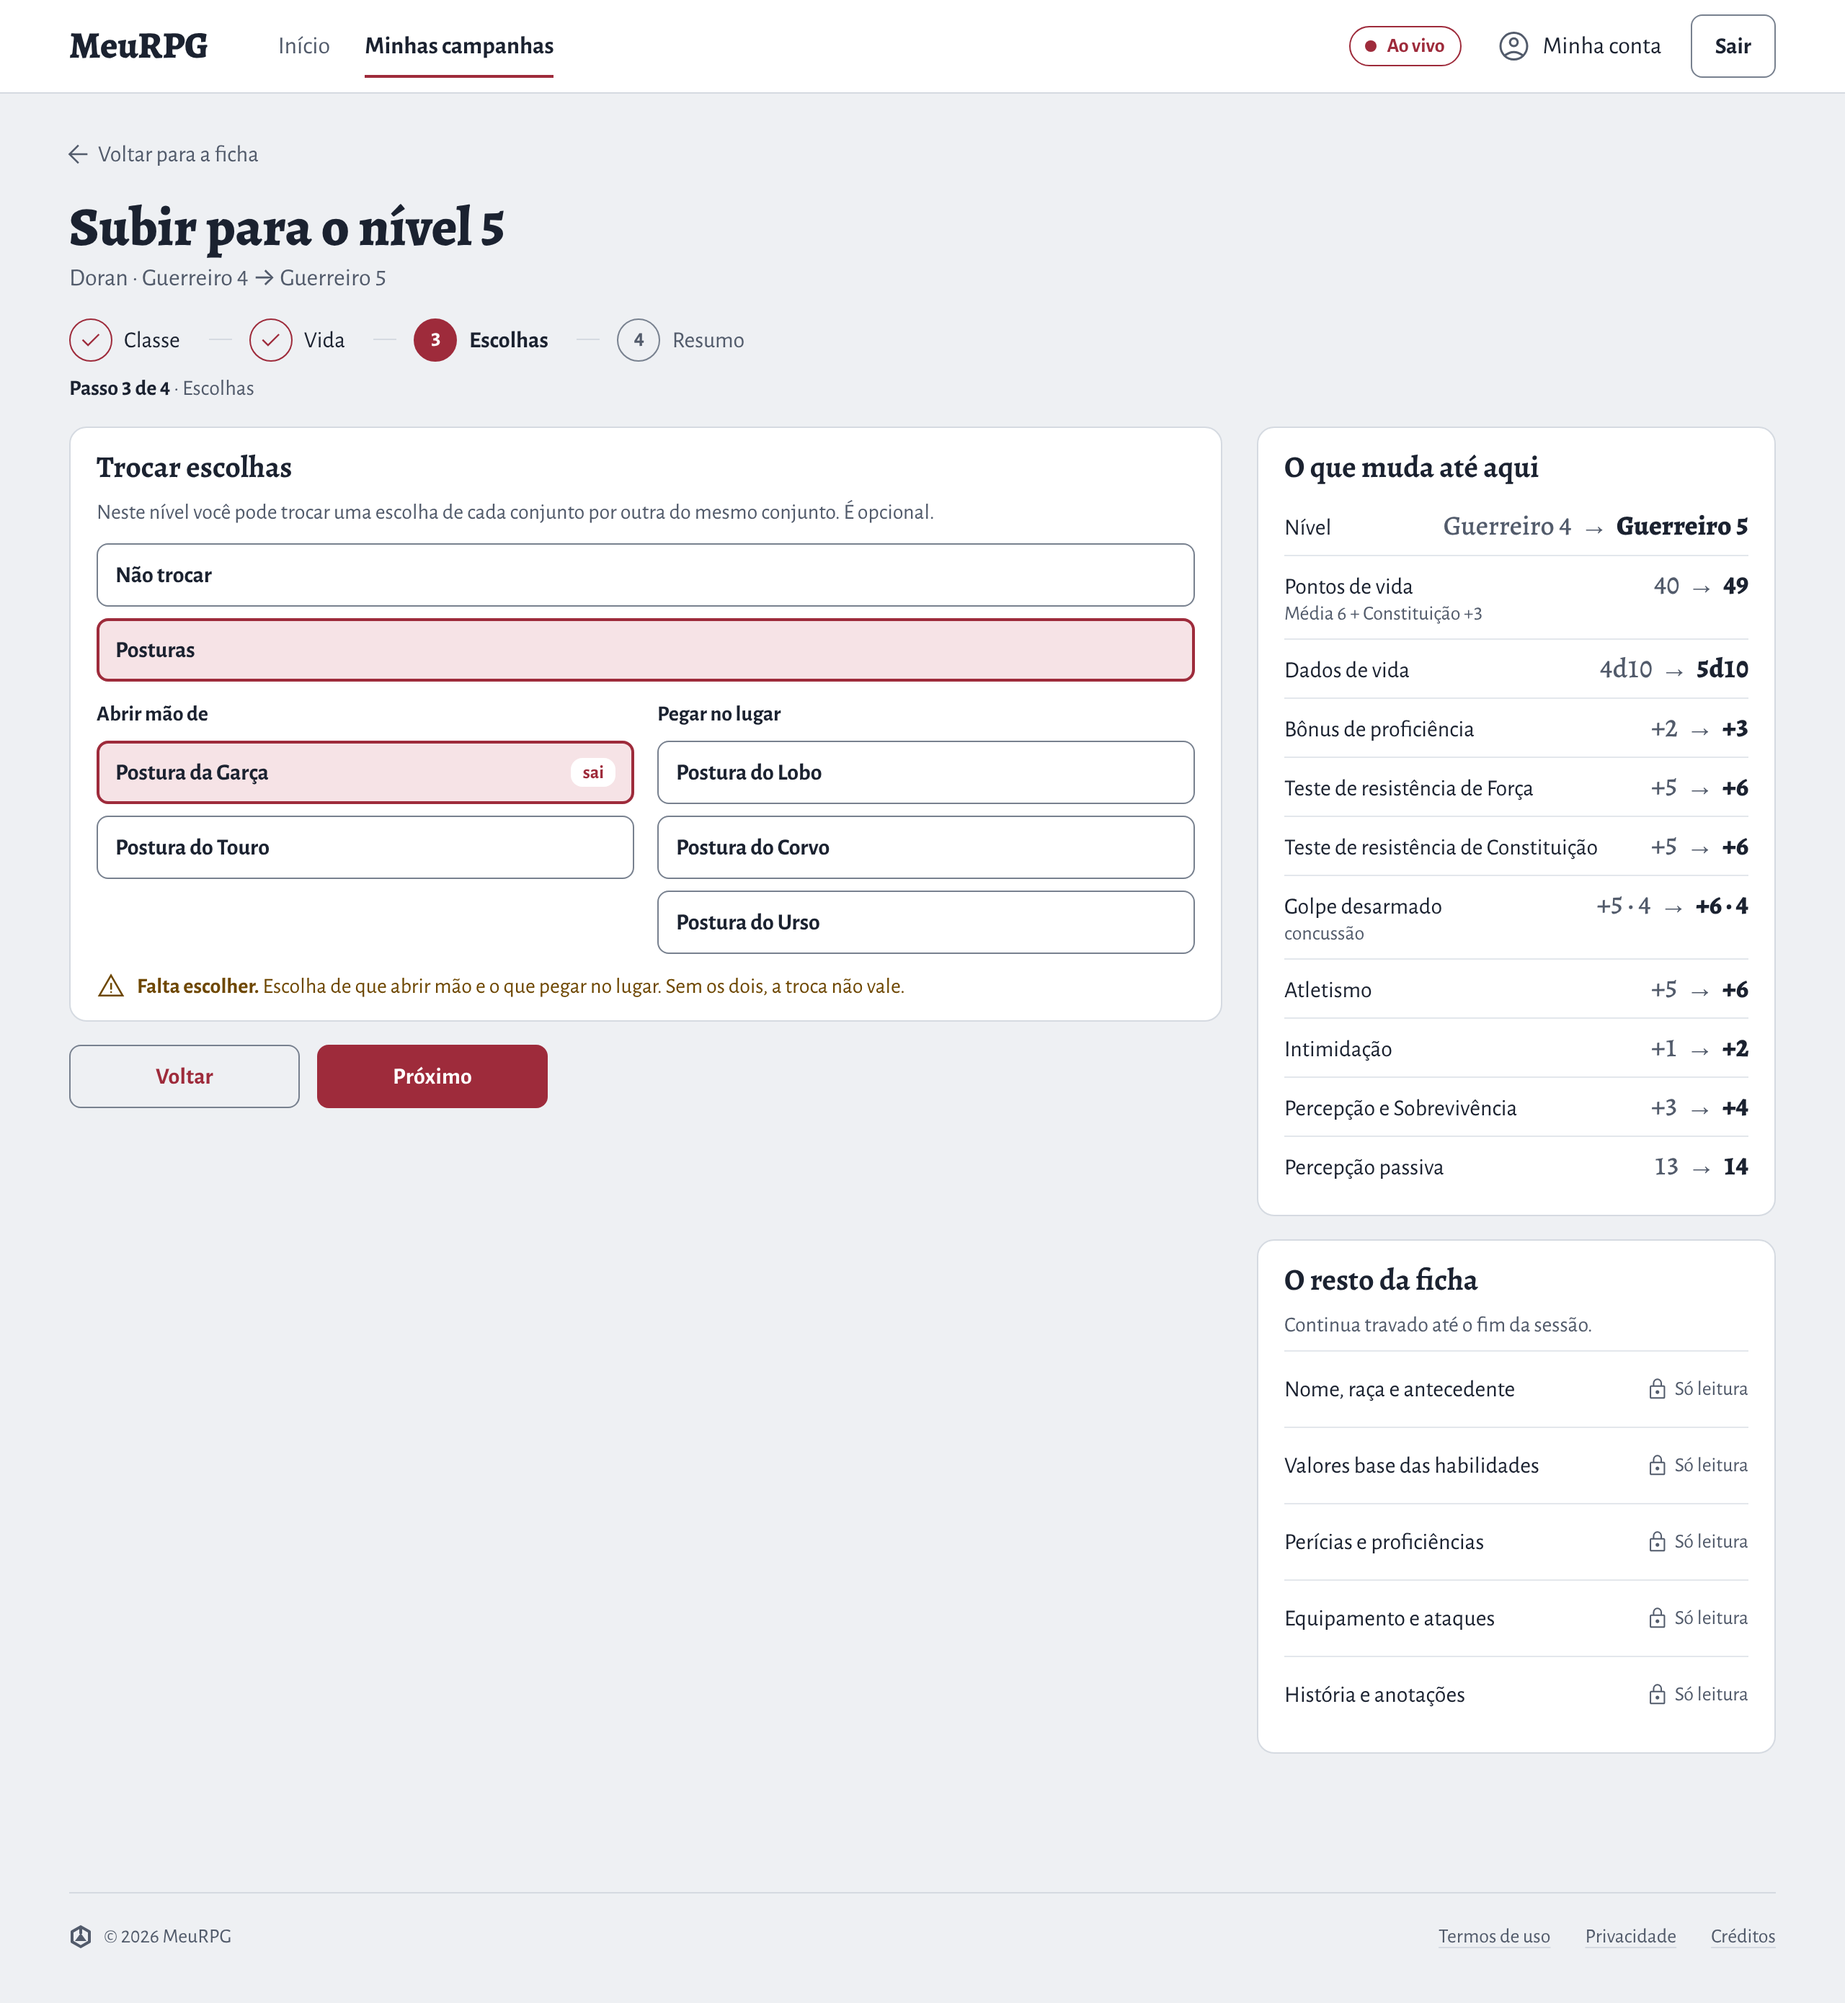
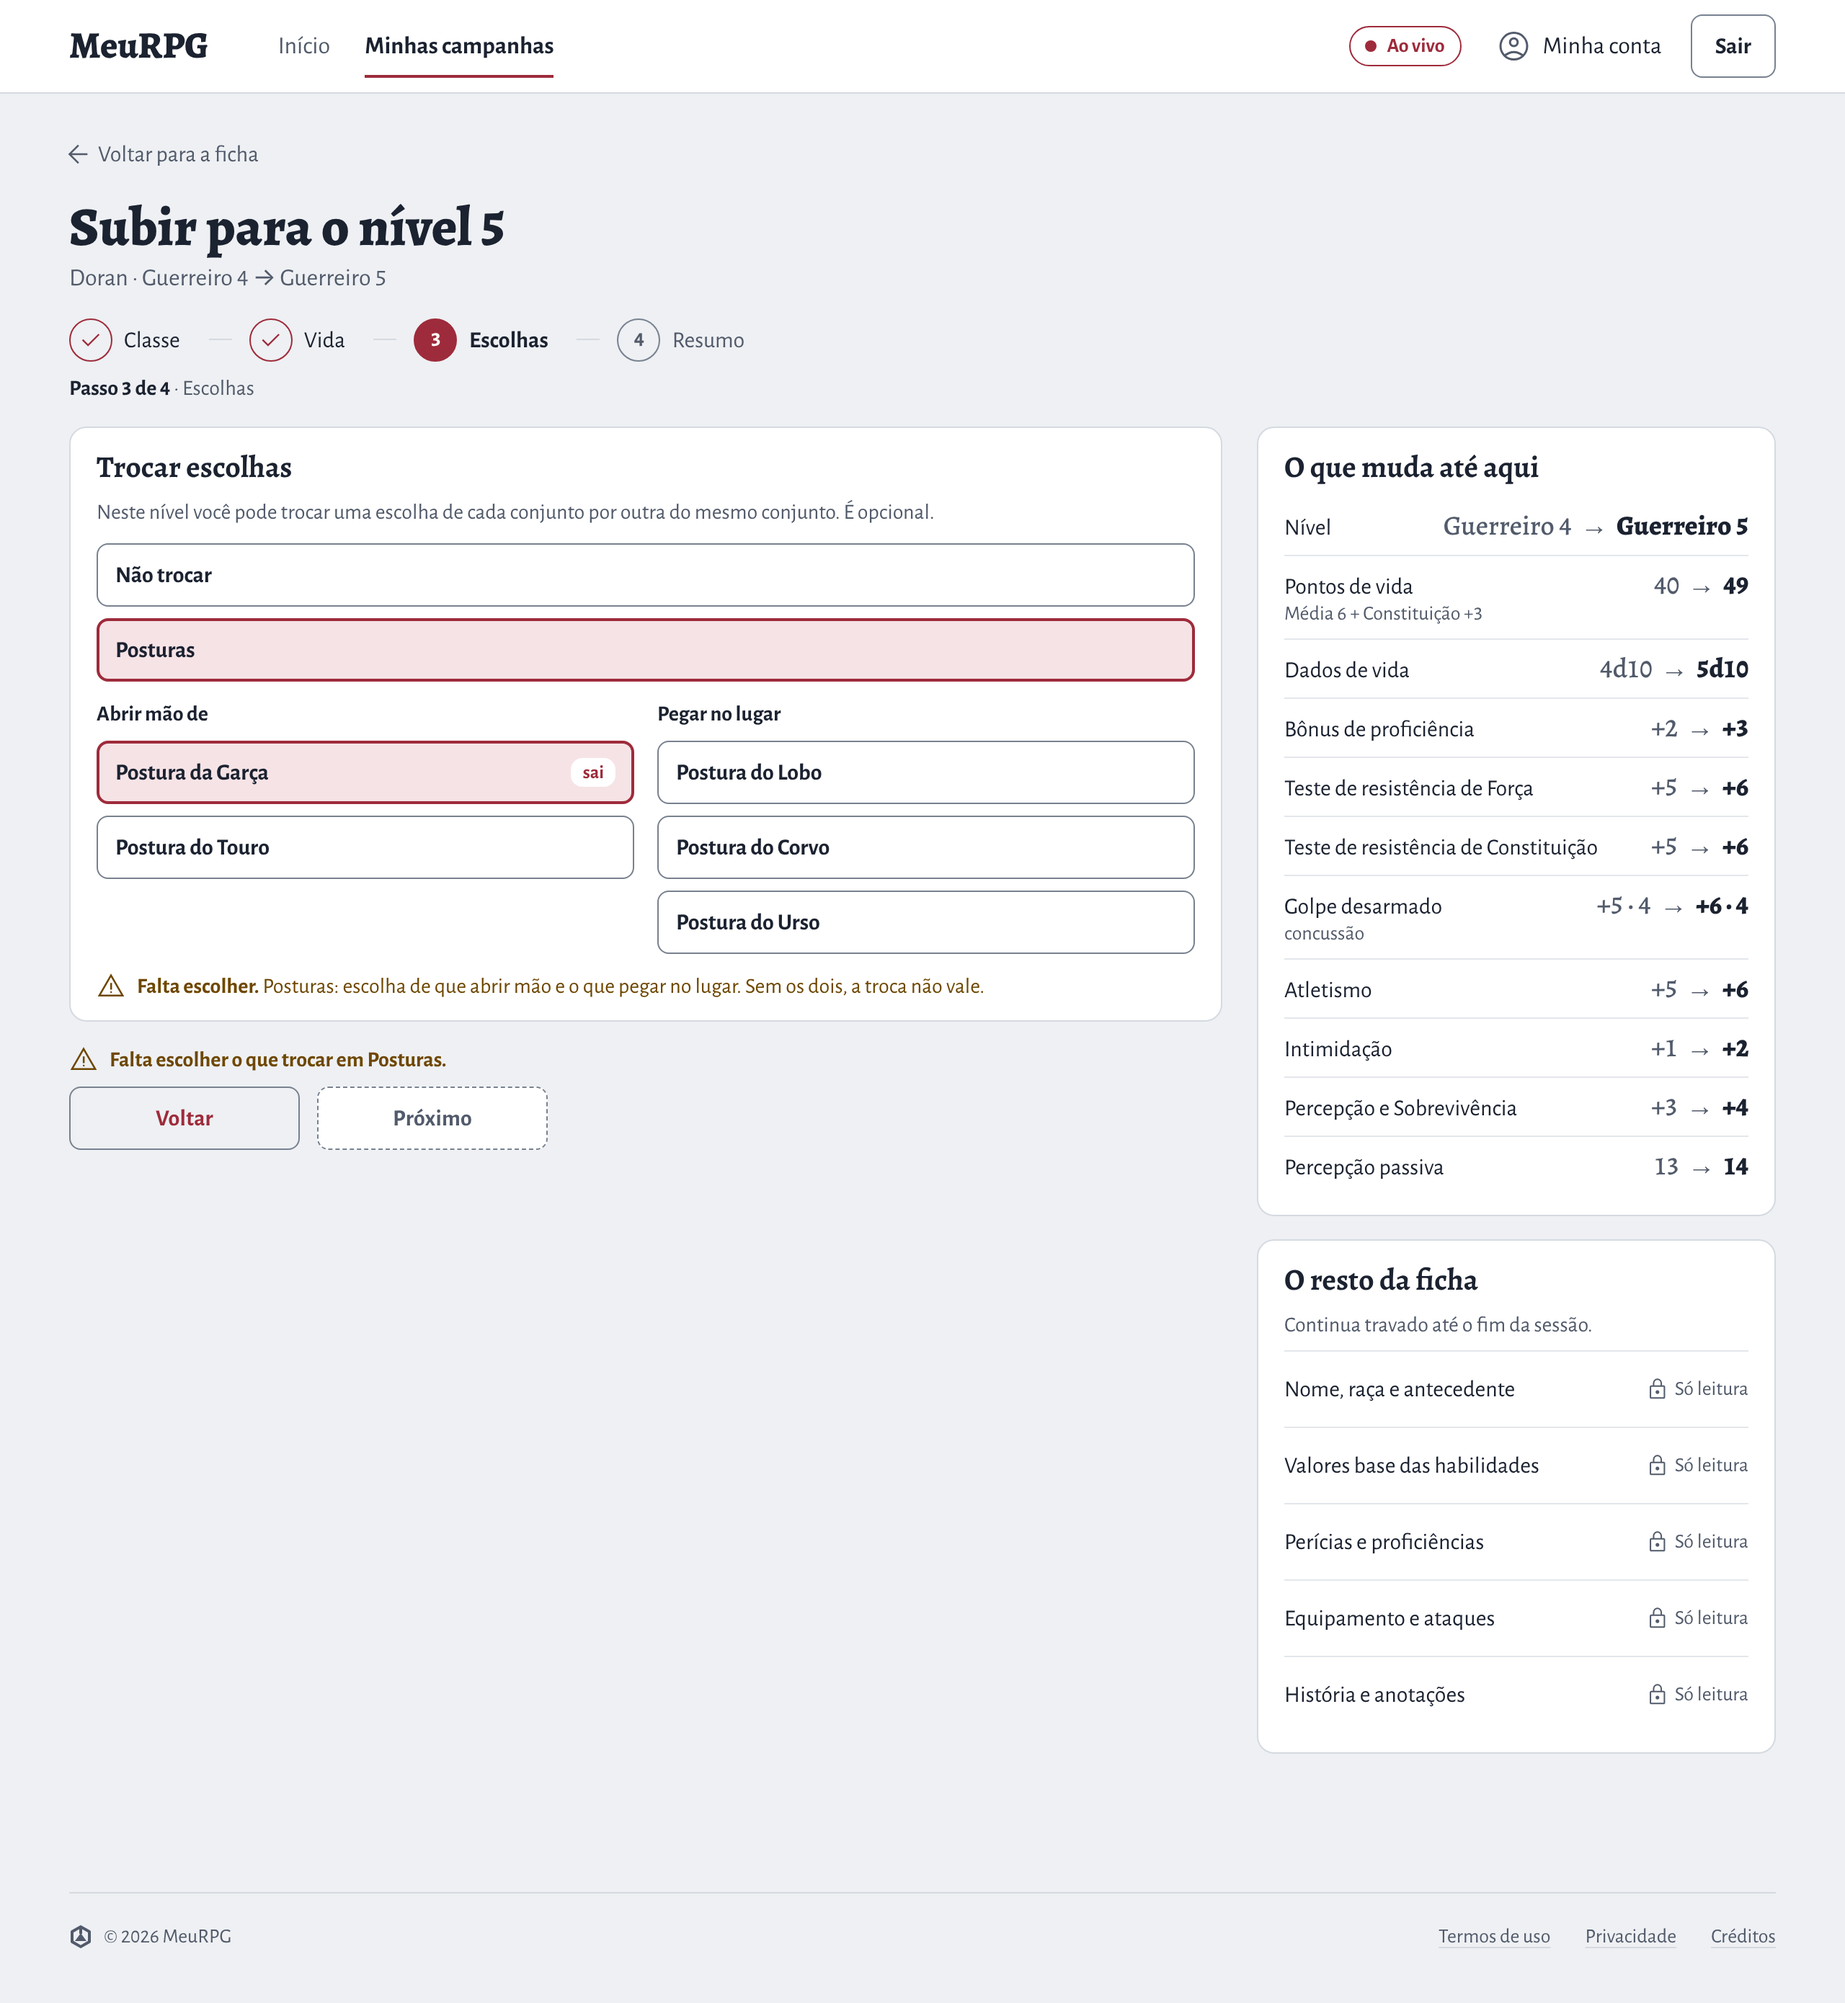
715: the half swap as a missing choice (shots), drop the half-swap summary

Changed region(s): [[0.0312, 0.495, 0.3125, 0.5878]]

diff --git a/715-trocar-opcao-de-caracteristica/README.md b/715-trocar-opcao-de-caracteristica/README.md
@@ -10,13 +10,13 @@ Every state exists at 390, 768 and 1280 px, light (`claro`) and dark (`escuro`),
 |---|---|---|
 | Escolhas, before a pick | `715-escolhas-1-antes` | step 3 of 4, panel "Trocar escolhas": "Não trocar" (with its check) on its own full-width row, "Posturas" below it |
 | Escolhas, group open | `715-escolhas-2-conjunto-aberto` | "Posturas" open (border and fill, no check); from 768 up "Abrir mão de" and "Pegar no lugar" sit side by side; the hint "Falta escolher. Escolha de que abrir mão e o que pegar no lugar. Sem os dois, a troca não vale." with a warning icon |
-| Escolhas, half a swap | `715-escolhas-4-meia-troca` | only "Postura da Garça" chosen ("sai" tag), the hint still up, no "Trocas escolhidas" list |
+| Escolhas, half a swap | `715-escolhas-4-meia-troca` | only "Postura da Garça" chosen ("sai" tag): the hint "Falta escolher. Posturas: escolha de que abrir mão e o que pegar no lugar. Sem os dois, a troca não vale." in the warning style, no "Trocas escolhidas" list; "Próximo" dashed and the footer says "Falta escolher o que trocar em Posturas." |
+| Escolhas, half a swap after "Próximo" | `715-escolhas-6-meia-troca-depois-de-proximo` (and `-390x844-*`) | the refusal, as for any missing choice of the level-up: the step does not advance, the panel is outlined in the warning colour, the focus ring is on the "Posturas" chip, the hint and the footer line stay; "Não trocar" or completing the swap clears it |
 | Escolhas, after a pick | `715-escolhas-3-depois` | list "Trocas escolhidas" under the chips ("Posturas: Postura da Garça → Postura do Lobo", "Vale ao confirmar o nível."), "sai" on the Garça, "entra" on the Lobo, check on "Posturas" |
 | Escolhas, 390 x 844 | `715-escolhas-3-depois-390x844-*` | viewport shots: the natural scroll after the last tap, and (`-topo`) the top of the page |
 | Escolhas, 390 x 844 with the session banner | `715-escolhas-3-depois-390x844-faixa-topo` / `-faixa-lista` | the banner of another campaign's session ("A sessão 1 de Mesa do Vale começou.") up, light and dark: the top of the page, and the page scrolled to the list, whose lines are above the sticky bar |
 | Escolhas, long names | `715-escolhas-5-nomes-longos` | a group "Posturas Ancestrais do Vale Seco e das Montanhas Geladas" (the chip takes the row) and options of two lines |
 | Resumo | `715-resumo` | "Posturas" as a row of the table, "Postura da Garça → Postura do Lobo" (no loose sentence) |
-| Resumo, half a swap | `715-resumo-meia-troca` | "Próximo" pressed with half a swap: the summary has no row for it (the half swap is not sent) |
 | Ficha, after confirming | `715-ficha-depois` | the sheet at level 5 (not shot again) |
 | Habilidades | `715-habilidades-1-antes` | ASI level 6: the panel now comes after "O que muda com o aumento"; "Não trocar" on its row, "Estilo de Luta" and "Posturas" below |
 | Habilidades, two swaps | `715-habilidades-2-duas-trocas` | "Trocas escolhidas" with "Estilo de Luta: Defesa → Duelismo" and "Posturas: Postura do Touro → Postura do Urso"; both chips checked, "Posturas" open; at 1280 the same two rows in "O que muda até aqui" |
@@ -28,5 +28,7 @@ Notes:
 - Every state exists at 390, 768 and 1280 px, light (`claro`) and dark (`escuro`), scale 2, except where the table says otherwise; the full-page shots are stitched, so the sticky footer and header of the page can sit in the middle of a tall shot (an artefact of the capture, not of the page).
 - The check has one meaning: this group has a swap, or "Não trocar" is the choice. An open group is shown by border and fill alone. In the lists, the chosen rows carry "sai" / "entra" instead of a check.
 - "Próximo" is filled at every width when it is enabled; it stays dashed while a choice is missing (the "Habilidades" shots).
-- The pick names lose the group's lead in the panel and the rows ("Estilo de Luta: Defesa" is "Defesa" under "Estilo de Luta"); the group is "Estilo de Luta" everywhere (the server's name for the rule's group was "Estilo de luta").
+- The pick names lose the group's lead in the panel and the rows ("Estilo de Luta: Defesa" is "Defesa" under "Estilo de luta"); the group is "Estilo de luta" as on the board, the picks keep the SRD's "Estilo de Luta: ..." names.
 - The banner of the 390 x 844 shots is the one of a session in another campaign of the same player ("Mesa do Vale"); no fixture name.
+- Not shot again after the group name went back to "Estilo de luta": `715-habilidades-*` and `715-resumo-duas-trocas-*` still draw "Estilo de Luta" (capital L) for the rule's group; the build now says "Estilo de luta".
+- The half-swap shots (`715-escolhas-4-*` and `715-escolhas-6-*`) are of the build with the missing-choice behaviour; `715-resumo-meia-troca-*` is gone because a half swap no longer reaches the summary.
